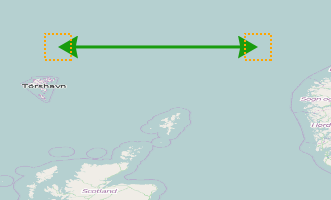
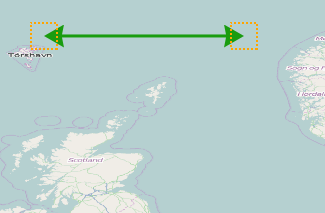
sakuli: extend geo map arrow test case

diff --git a/t/scenarios/sakuli_e2e/cases/0213_panorama_arrow_element_geo.js b/t/scenarios/sakuli_e2e/cases/0213_panorama_arrow_element_geo.js
@@ -25,7 +25,7 @@ var $case = function() {
     click(_span("Icons & Widgets"));
     click(_span("Line / Arrow / Watermark"));
 
-    mouseClickXY(200,100);
+    mouseClickXY(200,130);
 
     isVisible(_textbox('host'));
     click(_div('/trigger/', _rightOf(_textbox('host'))));
@@ -34,19 +34,44 @@ var $case = function() {
     click(_div('/trigger/', _rightOf(_textbox('service'))));
     _setValue(_textbox("service"), "Example Check");
 
+    click(_span("Appearance"));
+    _assertEqual("62.7553515625", _getValue(_textbox("lat1")));
+    _assertEqual("-6.0793359375", _getValue(_textbox("lon1")));
+    _assertEqual("62.7553515625", _getValue(_textbox("lat2")));
+    _assertEqual("2.7097265625", _getValue(_textbox("lon2")));
+
+    mouseMoveXY(300,300);
     screenRegion.waitForImage("arrow_map_geo.png", 3).mouseMove();
 
     click(_span("save"));
 
-    mouseClickXY(300,300);
-
-    //openDebugConsole();
     screenRegion.waitForImage("arrow_map_geo.png", 3).mouseMove();
+    mouseMoveXY(300,300);
+
+    mouseRightClickXY(200,130);
+    click(_span("Settings"));
+    click(_span("Appearance"));
+    _setValue(_textbox("lat1"), "48.858222");
+    _setValue(_textbox("lon1"), "2.2945");
+    _setValue(_textbox("lat2"), "51.50064");
+    _setValue(_textbox("lon2"), "-0.12445");
+    click(_span("save"));
+
+    screenRegion.waitForImage("geo_paris_london.png", 3).mouseMove();
+
+    mouseRightClickXY(200,130);
+    click(_span("Settings"));
+    click(_span("Appearance"));
+
+    _assertEqual("48.858222", _getValue(_textbox("lat1")));
+    _assertEqual("2.2945", _getValue(_textbox("lon1")));
+    _assertEqual("51.50064", _getValue(_textbox("lat2")));
+    _assertEqual("-0.12445", _getValue(_textbox("lon2")));
 
     // remove dashboard
     thruk_remove_panorama_dashboard("Arrow Element");
 
-    testCase.endOfStep("panorama arrow widget geo", 120);
+    testCase.endOfStep("panorama arrow widget geo", 180);
 };
 
 runTest($case);

diff --git a/t/scenarios/sakuli_e2e/cases/0213_panorama_arrow_element.js b/t/scenarios/sakuli_e2e/cases/0213_panorama_arrow_element.js
@@ -30,6 +30,13 @@ var $case = function() {
     isVisible(_textbox('service'));
     click(_div('/trigger/', _rightOf(_textbox('service'))));
     _setValue(_textbox("service"), "Example Check");
+
+    click(_span("Appearance"));
+    _assertEqual("62.7553515625", _getValue(_textbox("connectorfromx")));
+    _assertEqual("-6.0793359375", _getValue(_textbox("connectorfromy")));
+    _assertEqual("62.7553515625", _getValue(_textbox("connectortox")));
+    _assertEqual("2.7097265625", _getValue(_textbox("connectortox")));
+
     click(_span("save"));
 
     mouseClickXY(300,300);

diff --git a/t/scenarios/sakuli_e2e/cases/_include.js b/t/scenarios/sakuli_e2e/cases/_include.js
@@ -39,6 +39,11 @@ function openDebugConsole() {
     env.sleep(99999);
 }
 
+function mouseMoveXY($x, $y) {
+    var region = new RegionRectangle($x-10,$y-10,$x+10,$y+10);
+    region.mouseMove();
+}
+
 function mouseClickXY($x, $y) {
     var region = new RegionRectangle($x-10,$y-10,$x+10,$y+10);
     region.click();
